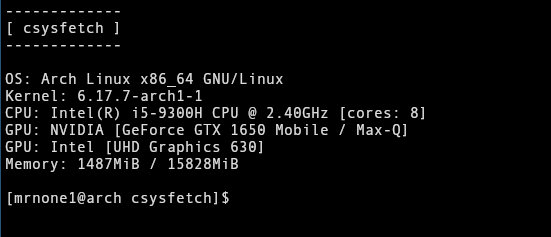
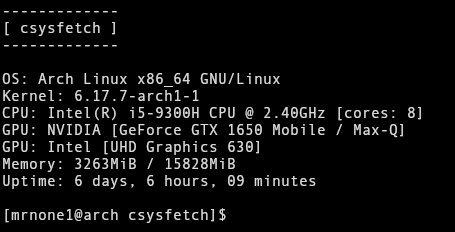
small update

diff --git a/main.c b/main.c
@@ -35,6 +35,10 @@ int main() {
 	
 	strcpy(command, "used=$(free -m | awk '/Mem:/ {print $3}') ; total=$(free -m | awk '/Mem:/ {print $2}') ; echo Memory: ${used}MiB / ${total}MiB");
 	system(command);
+
+	strcpy(command, "utime=$(uptime | awk -F'( |, |:)+' '{print $6, $7\",\", $8, \"hours,\",$9,\"minutes\"}') ; echo Uptime: $utime");
+	system(command);
+
 	strcpy(command, "echo");
 	system(command);
 

diff --git a/README.md b/README.md
@@ -1,3 +1,6 @@
 # csysfetch
 
 sysfetch rewritten in C
+
+
+![missing](csysfetch.png)
